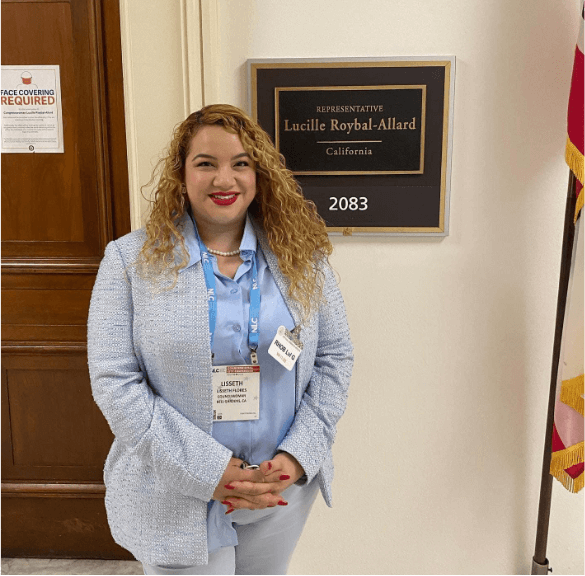
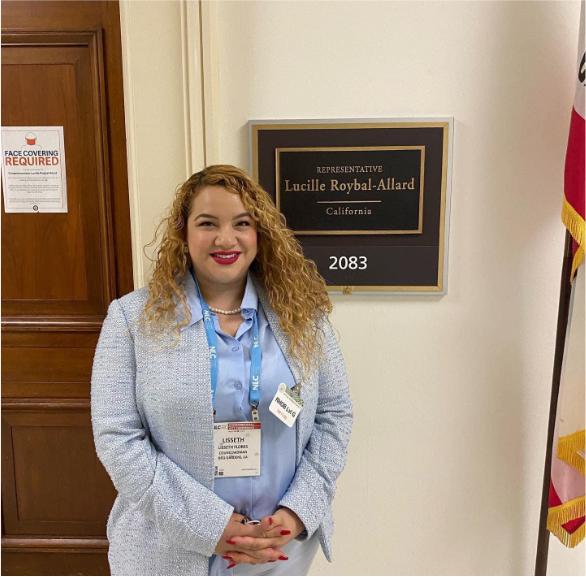
Requested fixed done
About gallery section were lisseth's headed is cropped was fixed.

diff --git a/SCSS/_about.scss b/SCSS/_about.scss
@@ -42,8 +42,10 @@
 
     @media screen and(max-width: 400px) {
       width: 100%;
+      margin-bottom: 10px;
     }
-
+    
+ 
     .about-content__info {
       width: 90%;
       
